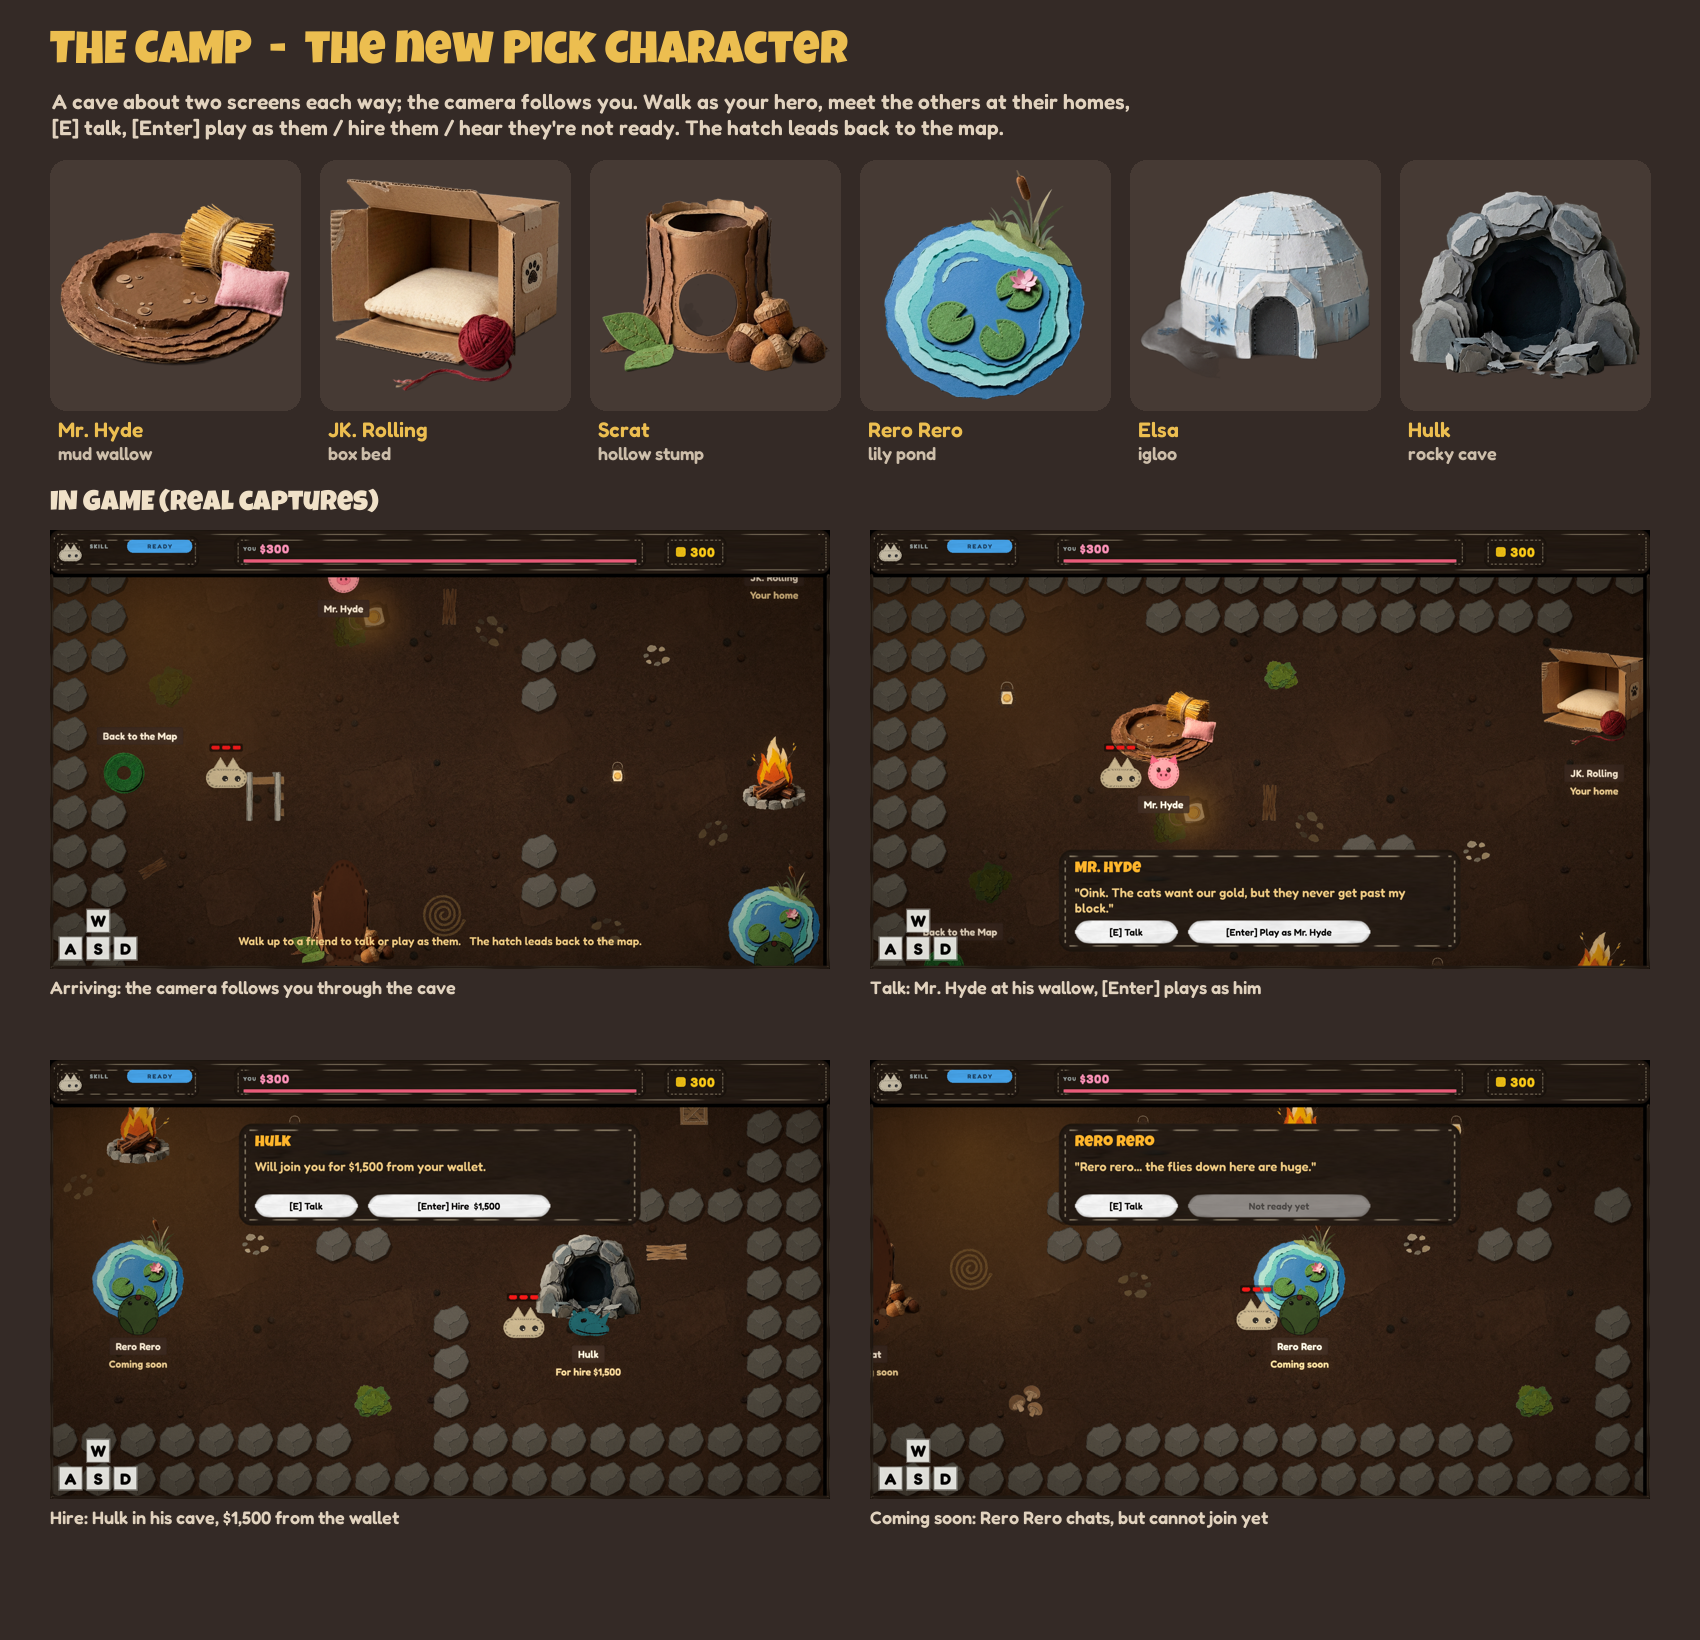
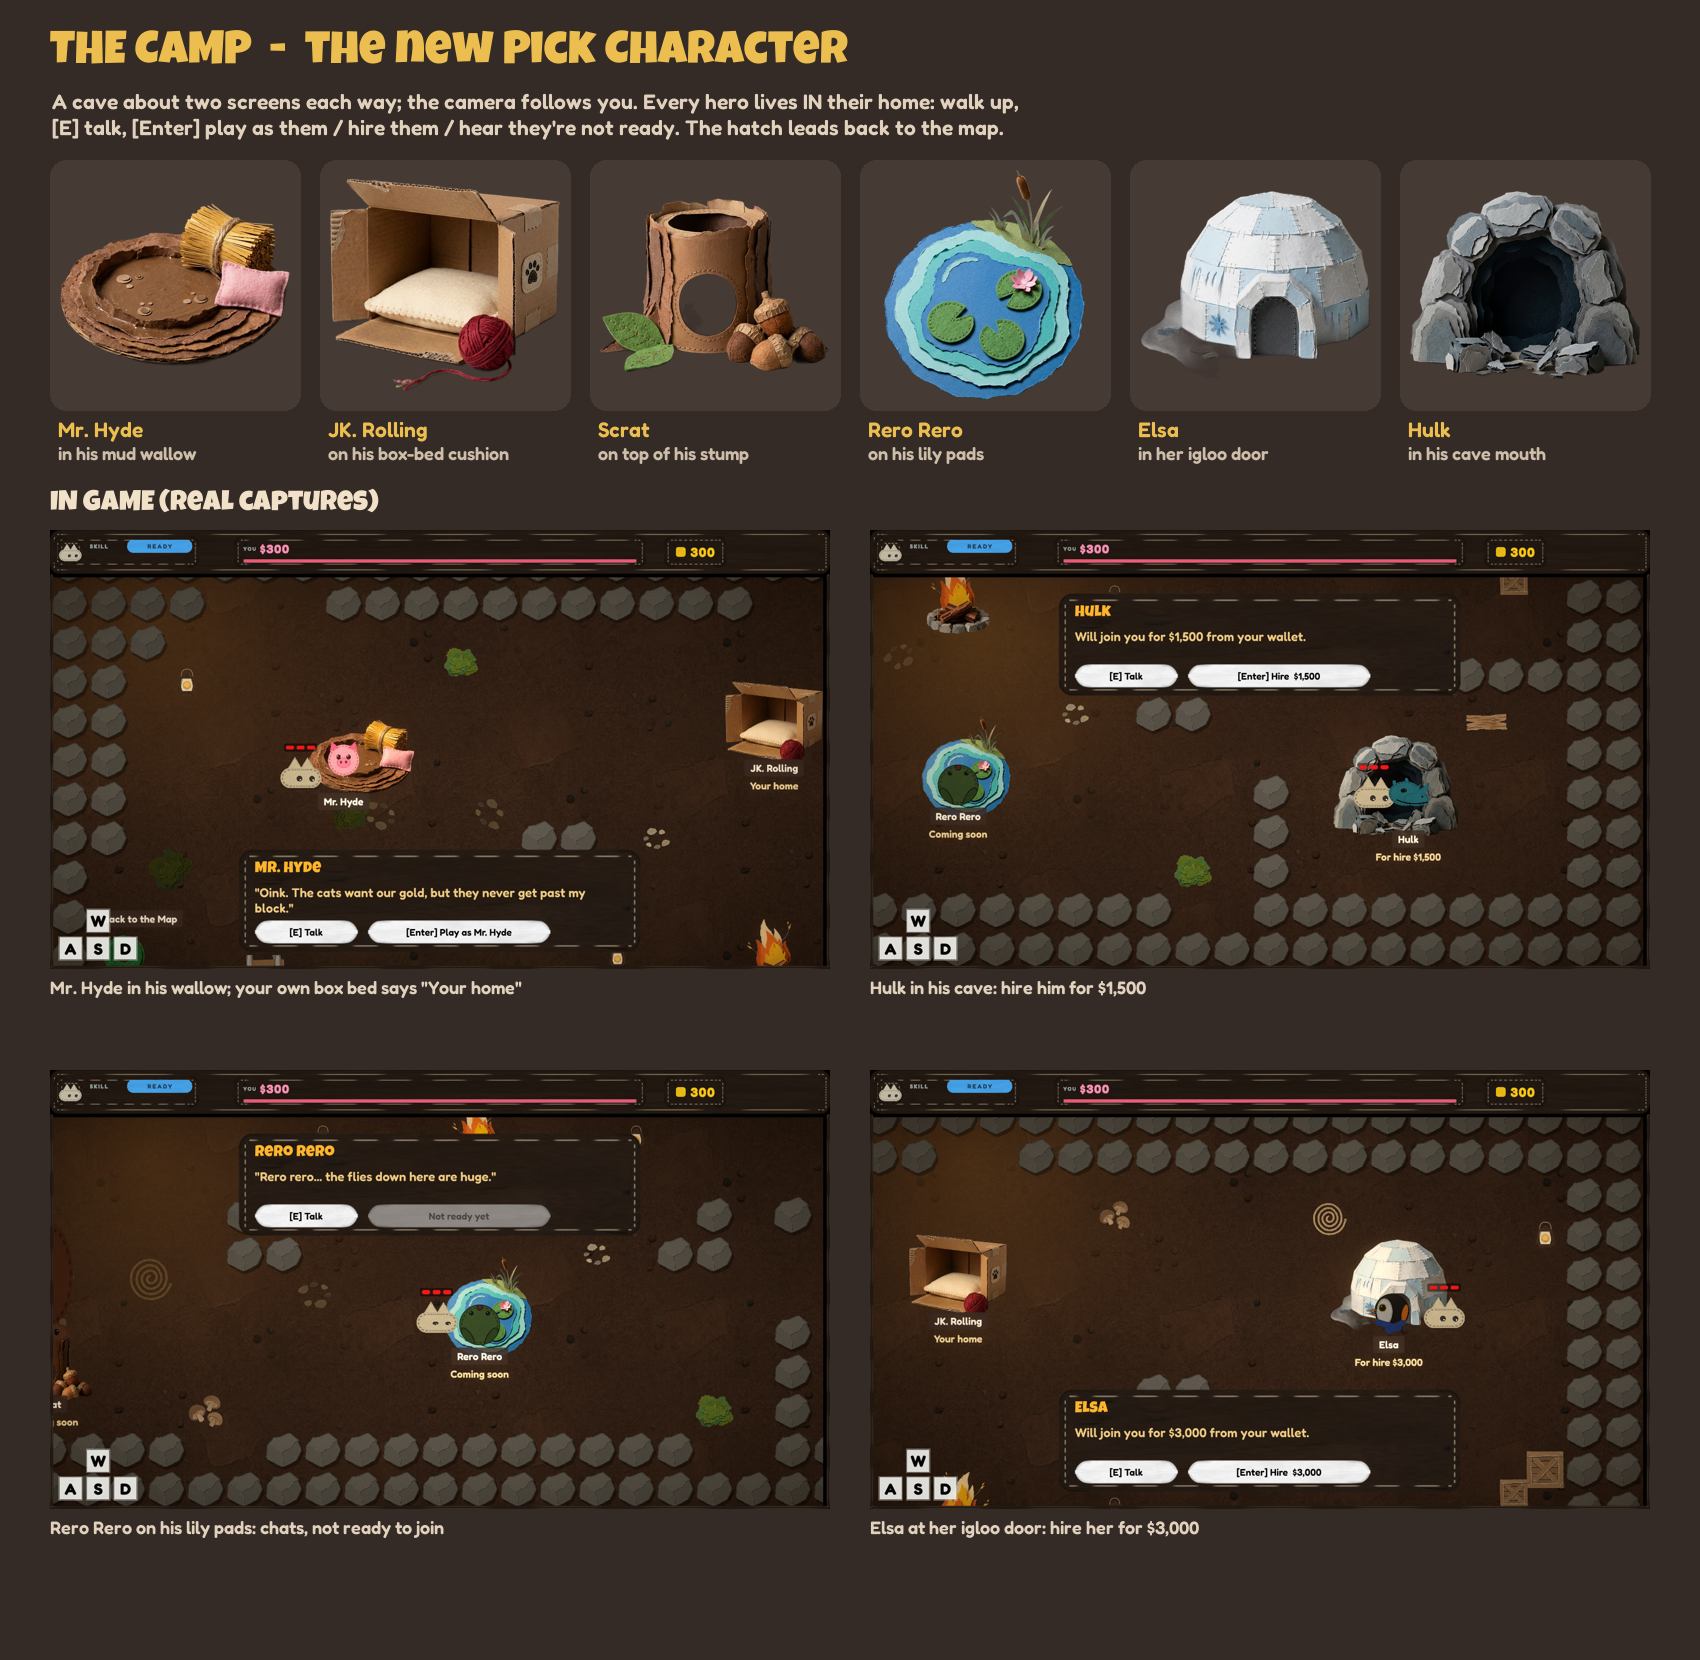
Camp: every hero lives IN their home
Heroes stood in front of their homes like visitors. Each spot now has a
home_anchor (where in the painting the hero stands) and home_size, and the
painting is placed so that point lands on the hero: Mr. Hyde in his mud
wallow, JK. Rolling on his box-bed cushion, Scrat on top of his stump (his
tall tail no longer hides it), Rero Rero on his lily pads, Elsa in her
igloo door, Hulk in his cave mouth. Name tags go under the hero or the
home, whichever reaches lower. The homes' solid footprints are gone (the
heroes stand on them); each hero keeps its own small body.

Capture tool: elsa and scrat stops, so every home is photographed.

diff --git a/Assets/Scripts/CampHub.cs b/Assets/Scripts/CampHub.cs
@@ -64,6 +64,8 @@ public class CampHub : MonoBehaviour
         public int line = -1;
         public State state;
         public string home;
+        public Vector2 homeAnchor = new Vector2(0.5f, 0.3f);
+        public float homeSize = 2.7f;
     }
 
     readonly List<Spot> spots = new List<Spot>();
@@ -125,6 +127,9 @@ public class CampHub : MonoBehaviour
                 if (!(o is Dictionary<string, object> d) || !d.TryGetValue("character", out object c)) continue;
                 var spot = new Spot { index = Mathf.RoundToInt(ToFloat(c)), at = GridAt(level, d),
                                       home = d.TryGetValue("home", out object h) ? h as string : null };
+                if (d.TryGetValue("home_anchor", out object ha) && ha is List<object> al && al.Count == 2)
+                    spot.homeAnchor = new Vector2(ToFloat(al[0]), ToFloat(al[1]));
+                if (d.TryGetValue("home_size", out object hs)) spot.homeSize = ToFloat(hs);
                 if (spot.index < 0 || spot.index >= CharacterUnlocks.Count) continue;
                 BuildSpot(spot, fireAt, scale);
                 spots.Add(spot);
@@ -177,25 +182,23 @@ public class CampHub : MonoBehaviour
 
     void BuildSpot(Spot spot, Vector2 fireAt, float scale)
     {
-        // Each hero's home, behind them (up the screen): a mud wallow, a box bed, a stump, a pond, an
-        // igloo, a rocky cave (Camp/Home_*), so the camp reads as six friends who live here
+        // Each hero lives IN their home (Camp/Home_*): the painting is placed so its home_anchor (the
+        // mud basin, the box's cushion, the stump's doorway, the lily pads, the igloo's door, the cave
+        // mouth) lands on the hero's spot. The paintings are square, so the anchor maps straight across.
         Sprite home = spot.home != null ? ArtLibrary.Get(spot.home) : null;
+        float tagY = -0.8f;   // the name tag goes under the hero, or under the home if that reaches lower
         if (home != null)
         {
-            Vector2 homeAt = spot.at + Vector2.up * 1.15f;
-            Piece(Names[spot.index] + " Home", home, homeAt, 2.7f, -10);
-            // a solid footprint: you walk round an igloo or a pond, not over it
-            var foot = new GameObject(Names[spot.index] + " Home footprint");
-            foot.transform.SetParent(root, false);
-            foot.transform.position = homeAt + Vector2.up * 0.1f;
-            foot.AddComponent<BoxCollider2D>().size = new Vector2(1.9f, 1.1f);
+            Vector2 homeAt = spot.at - (spot.homeAnchor - new Vector2(0.5f, 0.5f)) * spot.homeSize;
+            Piece(Names[spot.index] + " Home", home, homeAt, spot.homeSize, -10);
+            tagY = Mathf.Min(tagY, homeAt.y - spot.at.y - spot.homeSize * 0.42f);
         }
         Shadow(spot.at + Vector2.down * 0.35f, 0.9f);
 
         spot.state = StateOf(spot.index);
         // the name tag and status under the hero, so the home behind them stays clear
-        spot.name = Label("Label " + Names[spot.index], Names[spot.index], spot.at + new Vector2(0f, -0.8f), 2.4f, Color.white);
-        spot.status = Label("Camp Status", "", spot.at + new Vector2(0f, -1.25f), 2.4f, ArtLibrary.Cream);
+        spot.name = Label("Label " + Names[spot.index], Names[spot.index], spot.at + new Vector2(0f, tagY), 2.4f, Color.white);
+        spot.status = Label("Camp Status", "", spot.at + new Vector2(0f, tagY - 0.45f), 2.4f, ArtLibrary.Cream);
         if (spot.state != State.Current) MakeNpc(spot, scale);
         Restyle(spot);
     }

diff --git a/tools/art_capture/ArtCaptureRunner.cs b/tools/art_capture/ArtCaptureRunner.cs
@@ -190,11 +190,14 @@ public class ArtCaptureRunner : MonoBehaviour
             case "switch":  // camp: walk up to JK. Rolling and press Enter (play as them: the camp re-opens)
             case "talk":    // camp: walk up to JK. Rolling and press E (talk)
             case "hire":    // camp: walk up to Hulk (for hire), card only
+            case "elsa":    // camp: walk up to Elsa at her igloo, card only
+            case "scrat":   // camp: walk up to Scrat at his stump, card only
             case "soon":    // camp: walk up to Rero Rero (not released) and press E
                 // whichever of the two starters is a friend here (the other is the one you play)
                 GameObject starter = GameObject.Find("Camp JK. Rolling");
                 if (starter == null) starter = GameObject.Find("Camp Mr. Hyde");
-                var npc = action == "talk" || action == "switch" ? starter : GameObject.Find(action == "hire" ? "Camp Hulk" : "Camp Rero Rero");
+                var npc = action == "talk" || action == "switch" ? starter
+                        : GameObject.Find(action == "hire" ? "Camp Hulk" : action == "elsa" ? "Camp Elsa" : action == "scrat" ? "Camp Scrat" : "Camp Rero Rero");
                 var me = FindFirstObjectByType<PlayerCharacter>();
                 if (npc != null && me != null)
                 {
@@ -202,7 +205,7 @@ public class ArtCaptureRunner : MonoBehaviour
                     var meBody = me.GetComponent<Rigidbody2D>();
                     if (meBody != null) meBody.position = by;
                     me.transform.position = by;
-                    if (action != "hire") new GameObject("Capture key").AddComponent<CaptureKey>().key =
+                    if (action == "talk" || action == "switch" || action == "soon") new GameObject("Capture key").AddComponent<CaptureKey>().key =
                         action == "switch" ? UnityEngine.InputSystem.Key.Enter : UnityEngine.InputSystem.Key.E;
                 }
                 break;

diff --git a/docs/camp.md b/docs/camp.md
@@ -24,14 +24,18 @@ Each hero has a home that suits them, painted in the keyframe's cut-paper style 
 
 | Hero | Home | State on main today |
 | --- | --- | --- |
-| Mr. Hyde | mud wallow, hay bale, pink pillow | unlocked |
-| JK. Rolling | cardboard box bed, ball of yarn | unlocked |
-| Scrat | hollow stump, pile of acorns | not released: "Coming soon" |
-| Rero Rero | lily pond with reeds | not released: "Coming soon" |
-| Elsa | igloo on a patch of snow | for hire, $3,000 |
-| Hulk | rocky cave mouth | for hire, $1,500 |
+| Mr. Hyde | stands in his mud wallow (hay bale, pink pillow) | unlocked |
+| JK. Rolling | sits on the cushion in his cardboard box bed (yarn ball) | unlocked |
+| Scrat | sits on top of his hollow stump, tail up (acorns) | not released: "Coming soon" |
+| Rero Rero | sits on the lily pads in his pond | not released: "Coming soon" |
+| Elsa | stands in her igloo's doorway | for hire, $3,000 |
+| Hulk | stands in his rocky cave's mouth | for hire, $1,500 |
 
-Your own home says "Your home". The others stand in front of theirs as friends: they sway on
+Every hero lives **in** their home, not beside it. Each spot's `home_anchor` is where in the
+painting the hero stands, measured 0..1 from its bottom-left: the mud basin, the box's cushion, the
+stump's top, the lily pads, the igloo's door, the cave mouth. The painting is placed so that point
+lands on the hero, and `home_size` is the painting's width. Name tags go under whichever reaches
+lower, the hero or the home. Your own home says "Your home". The others are at theirs as friends: they sway on
 the shared stop-motion beat and turn to face you. A hero for hire is a little dimmed, and an
 unreleased one dimmer still. Name tags and states sit under them on the usual felt tags.
 
@@ -61,7 +65,6 @@ goods, the save (`ProgressStore.SelectedCharacter`), analytics, and the tutorial
     script, collider and rigidbody before it wakes, so nothing can mistake it for the player. It
     then gets a small static body. The squirrel keeps `SquirrelTailHeading`, with simulation off,
     so its tail stays in its standing pose.
-  - **Homes:** each has a solid footprint.
 - `LevelLoader.SetUpHub` adds `CampHub` instead of `MapHub` for a camp level, and skips the world
   map's saved spot there.
 - `GameFlow` opens the camp for the Pick Character node, and the old Select scene is the fallback
